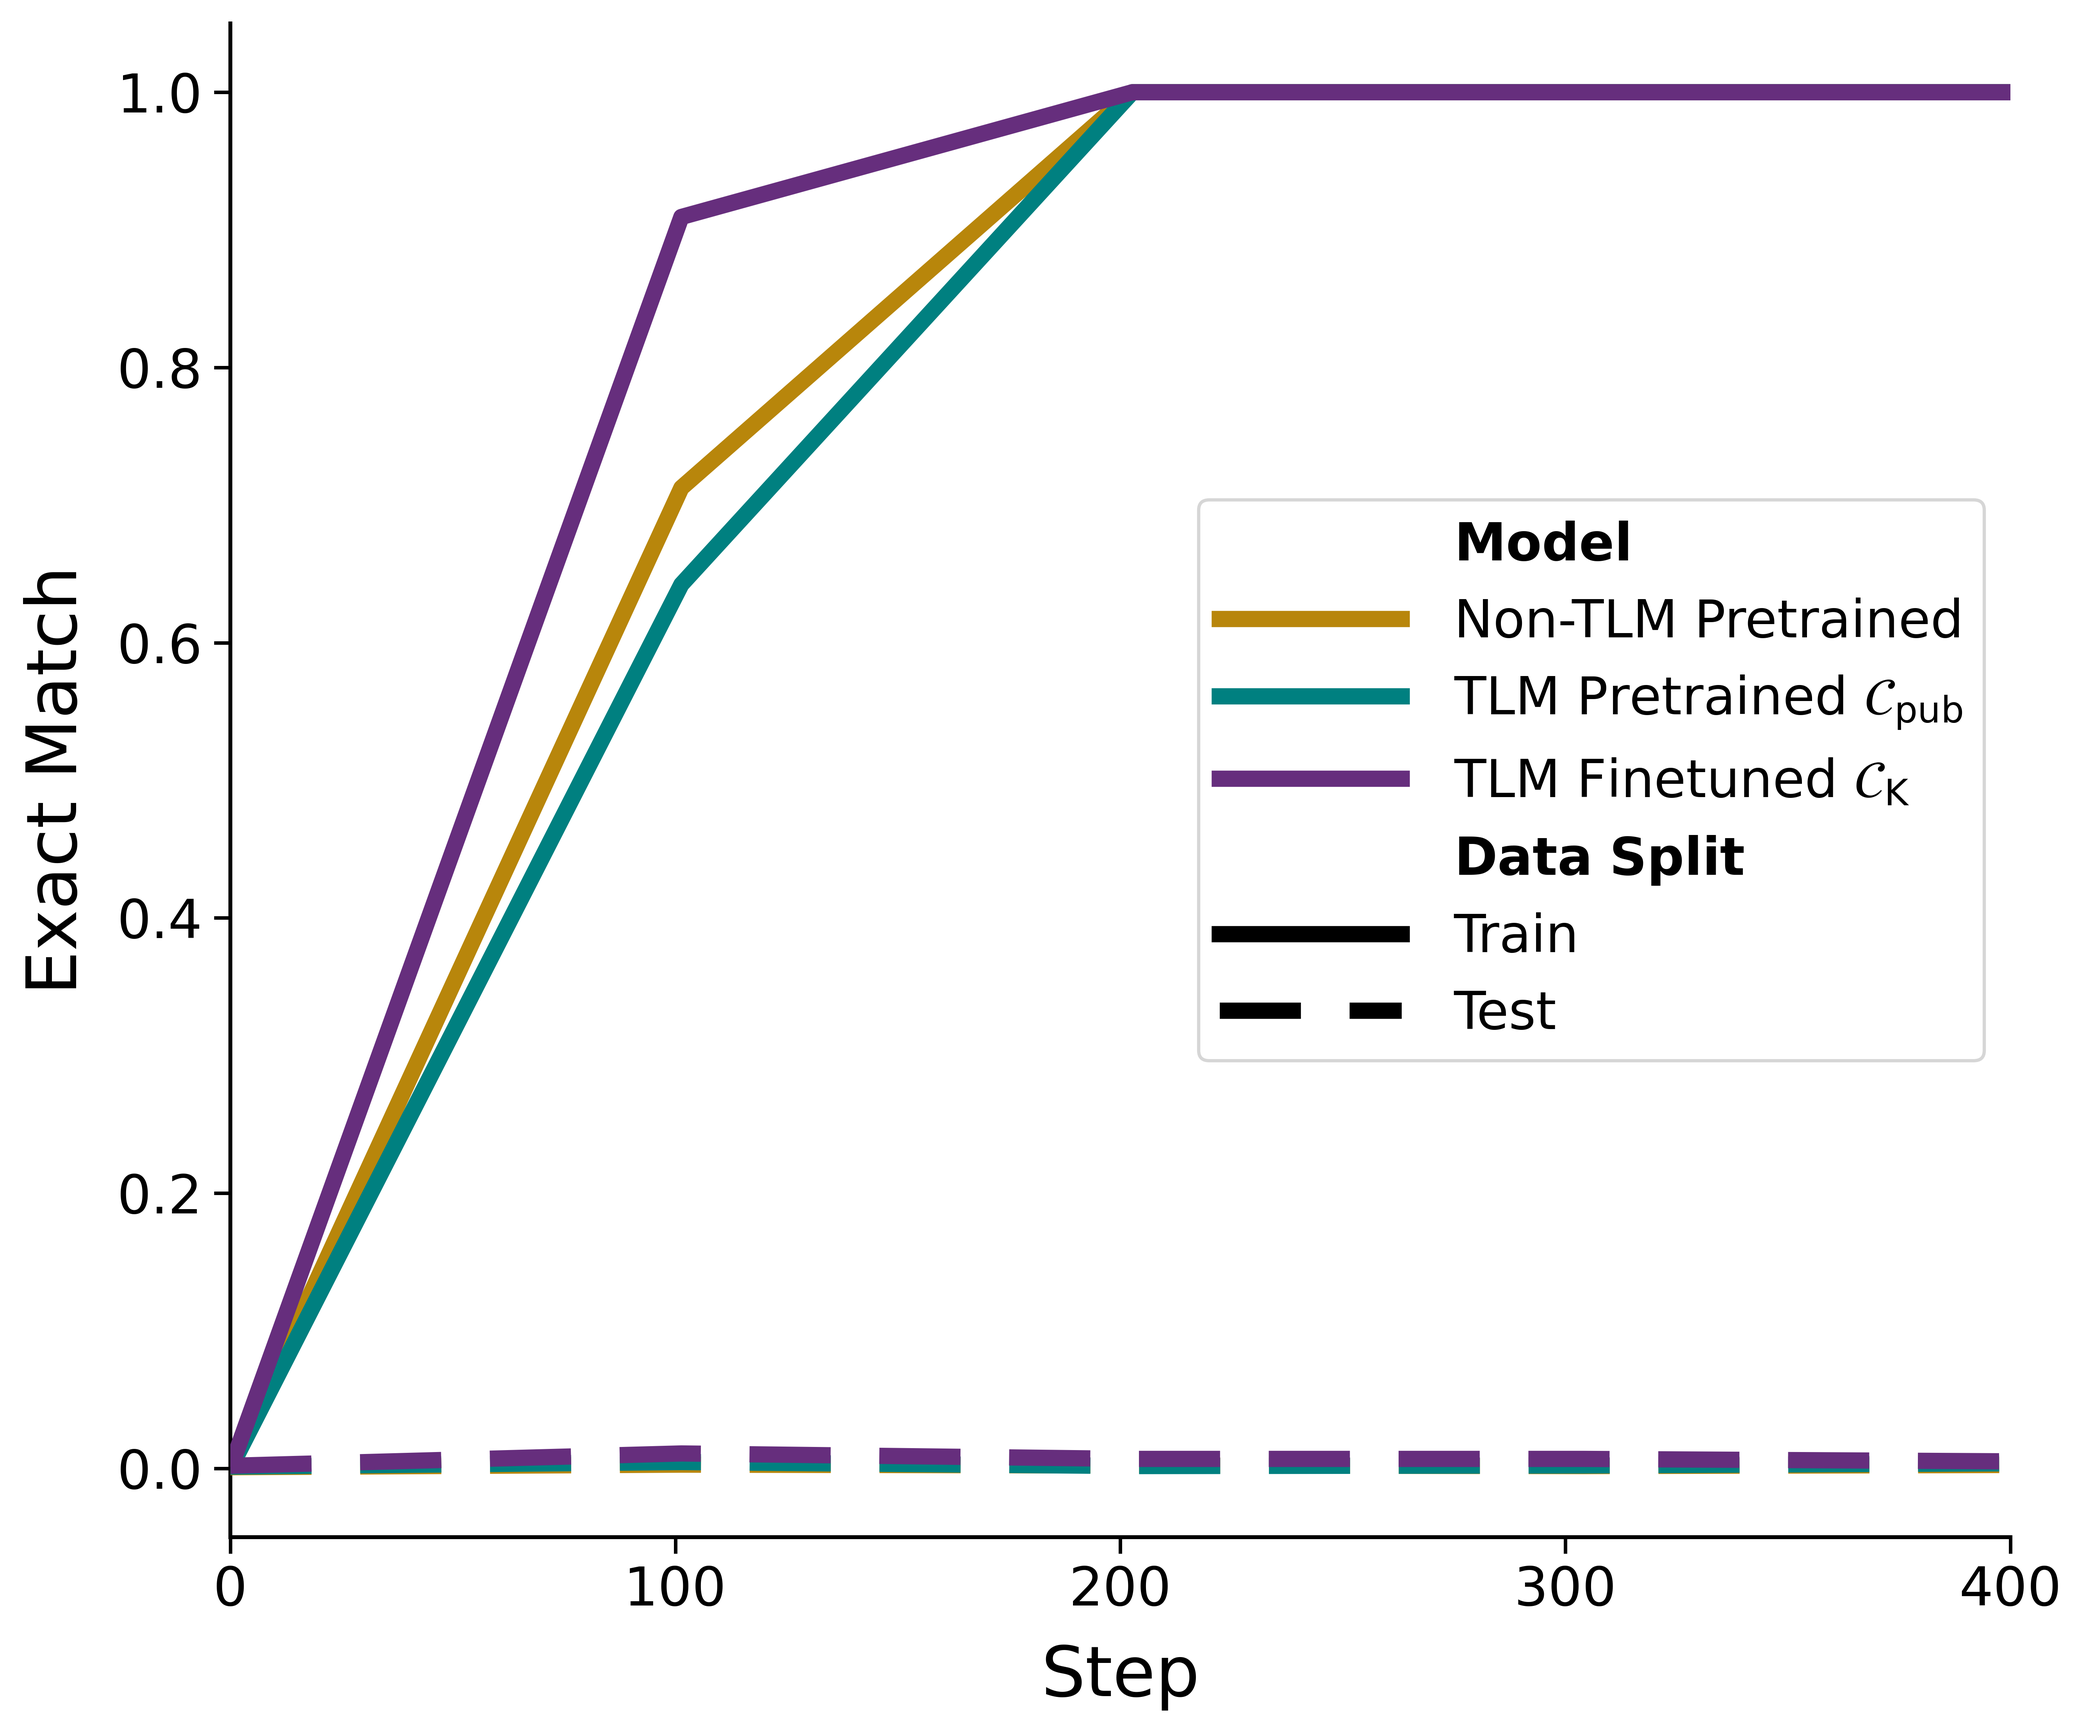
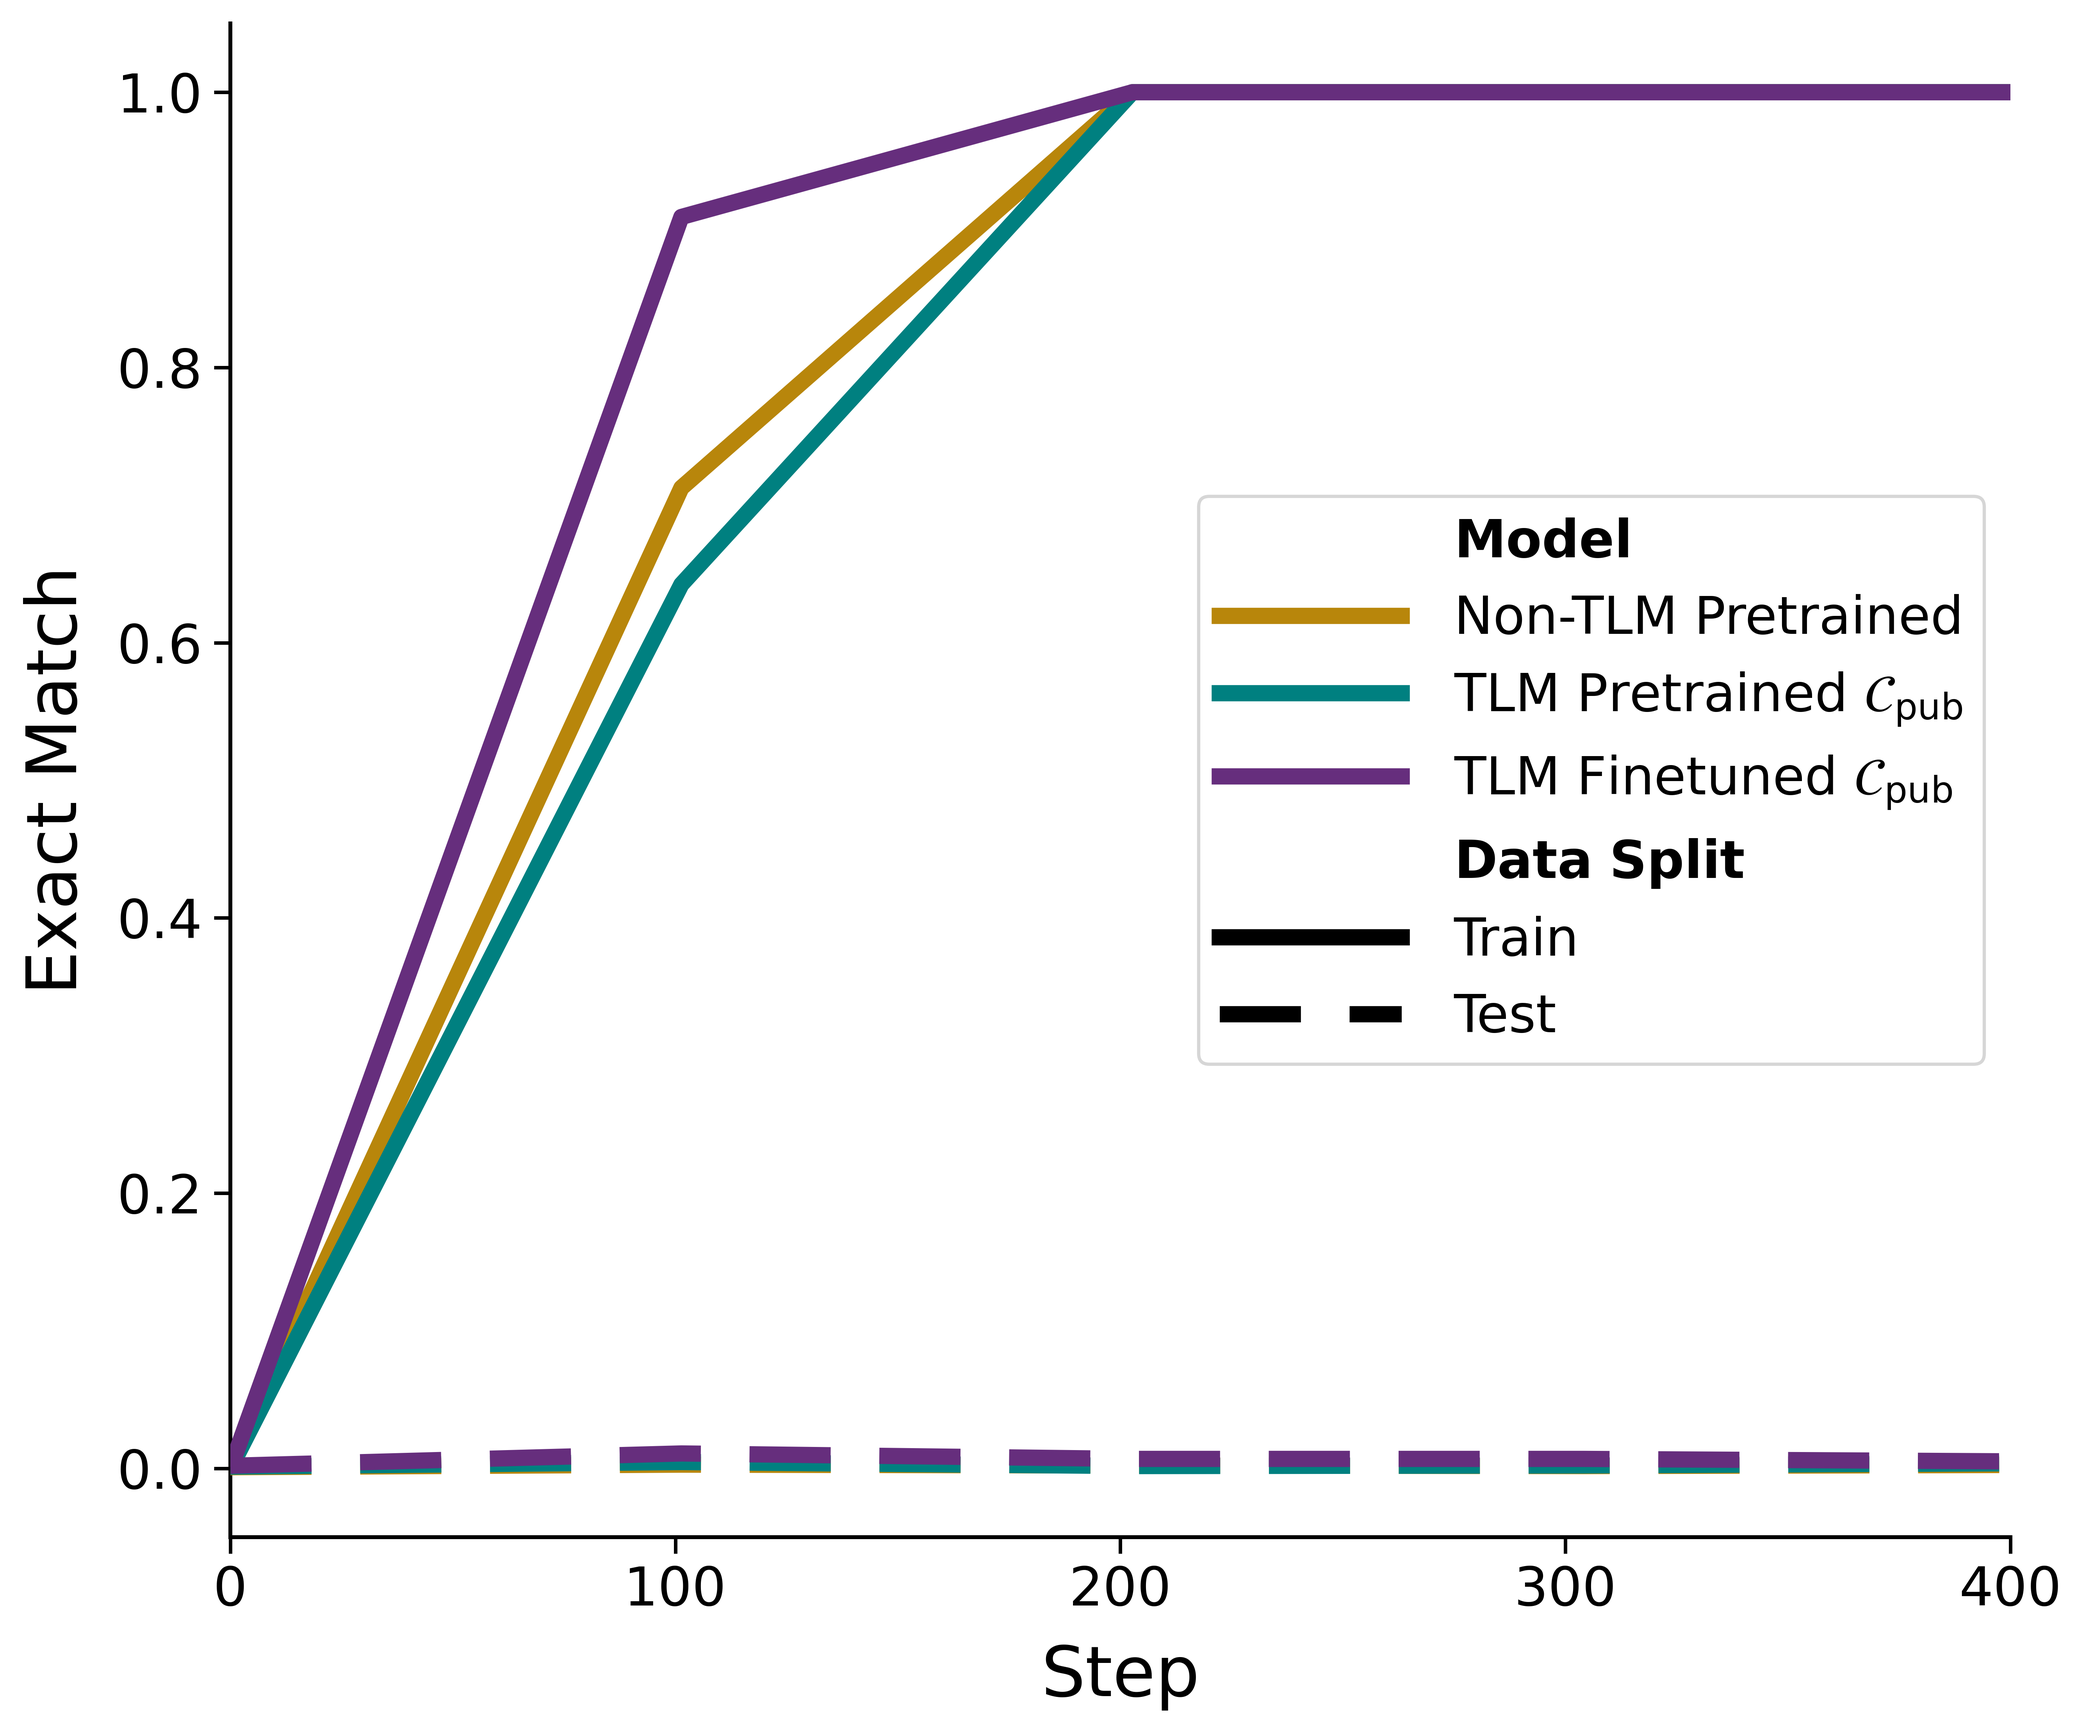
mult ft

diff --git a/scripts/eval/extraction_attack_plot.py b/scripts/eval/extraction_attack_plot.py
@@ -27,7 +27,7 @@ MODELS = [
      "attack_baseline_synbios_key5pct_frac1p00"),
     (r"TLM Pretrained $\mathcal{C}_{\mathrm{pub}}$",         TEAL,
      "attack_tiered_pretrain_synbios_key5pct_frac1p00"),
-    (r"TLM Finetuned $\mathcal{C}_{\mathrm{K}}$",            PURPLE,
+    (r"TLM Finetuned $\mathcal{C}_{\mathrm{pub}}$",          PURPLE,
      "attack_tiered_synbios_key5pct_frac1p00"),
 ]
 
